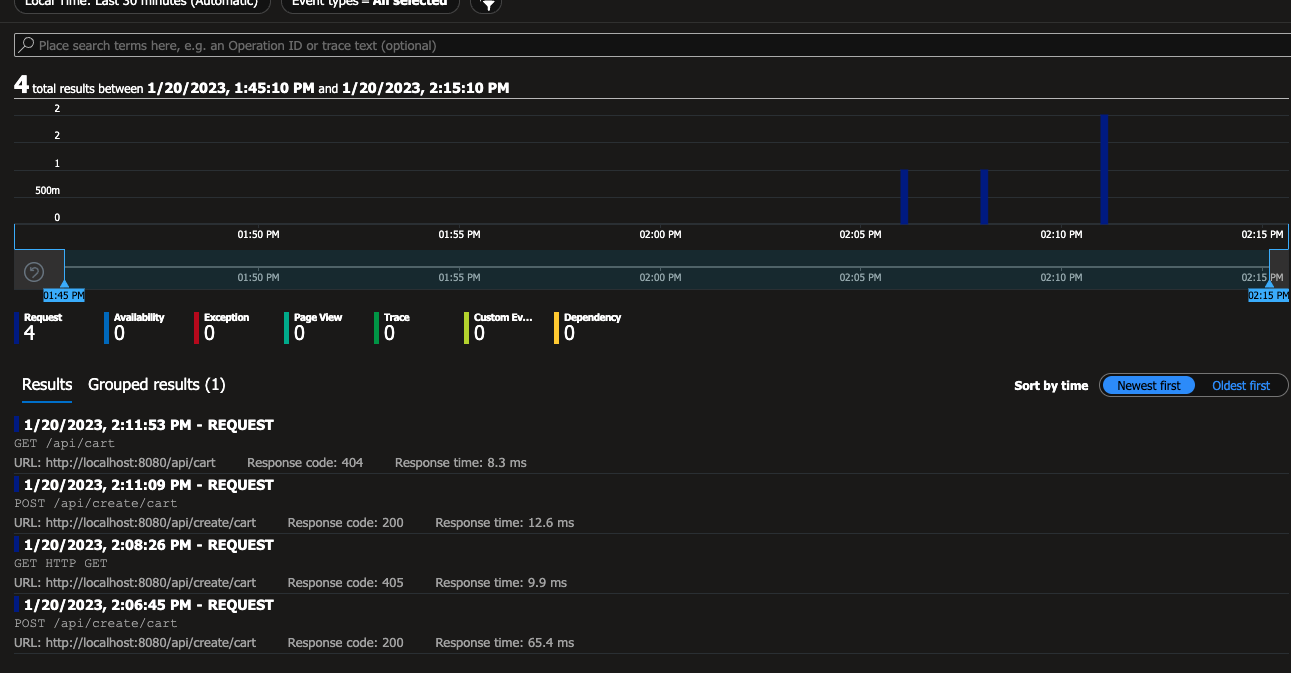
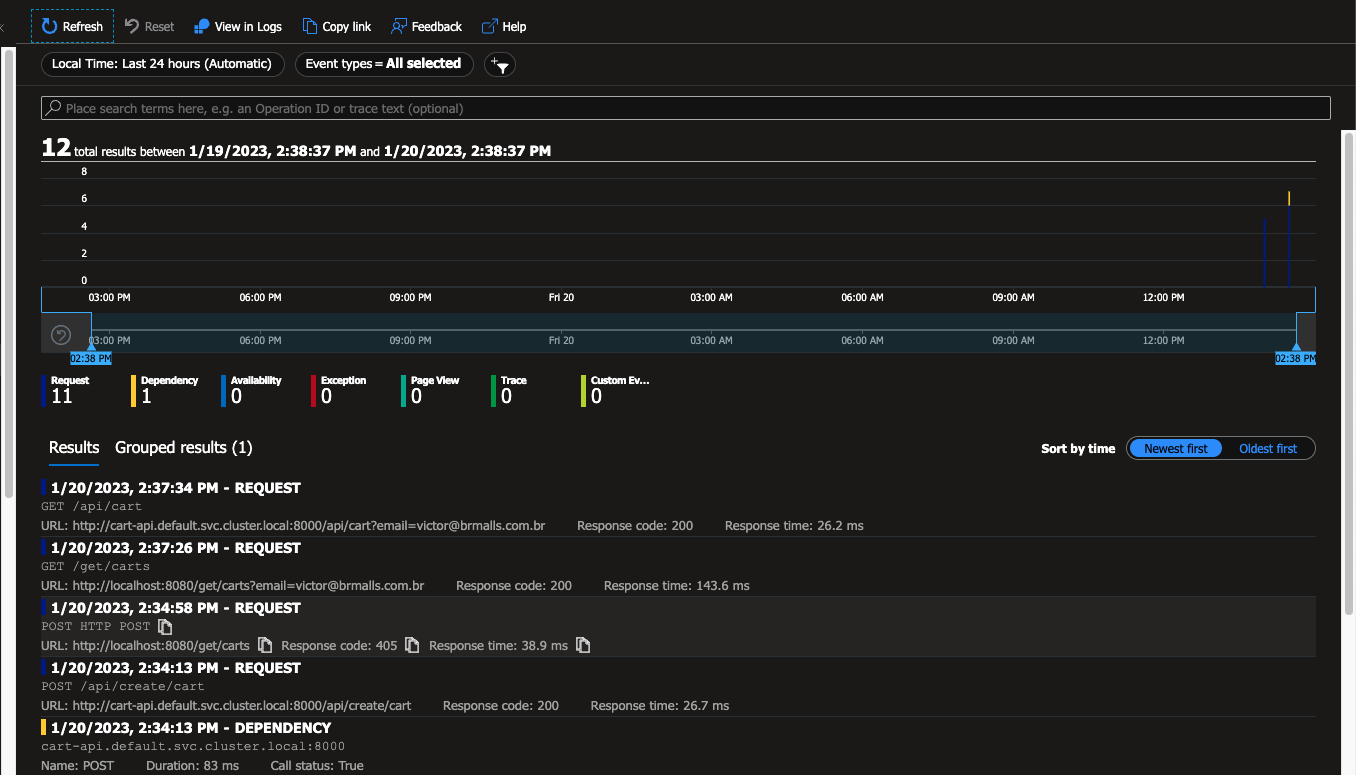
added client api

diff --git a/README.md b/README.md
@@ -33,22 +33,24 @@ This project is intended to test the opentelemetry operator using auto-instrumen
     ```
     # kubectl apply -f azuremonitor-autoinstrumentation.yml
     ```
-5. Run the deployment with the opentelemetry annotation(In this example, we are using python):
+5. Run the deployments with the opentelemetry annotation(In this example, we are using python):
 
     ```
-    # kubectl apply -f example/app/cart-api.yml
+    # kubectl apply -f example/app/
     ```
 6. Port forward the application and make an api call:
 
     ```
-    # kubectl port-forward deployment.apps/cart-api 8080:8000
+    # kubectl port-forward deployment.apps/client-api 8080:8000
 
-    # curl --location --request POST 'localhost:8080/api/create/cart' \
+    # curl --location --request POST 'localhost:8080/create/cart' \
         --header 'Content-Type: application/json' \
         --data-raw '{
             "email": "myemail@email.com",
             "products": ["The last of us part I"]
         }'
+
+    # curl --location --request GET 'localhost:8080/get/carts?email=victor@brmalls.com.br'
     ```
 7. See the telemetry in azure application insights:
 
